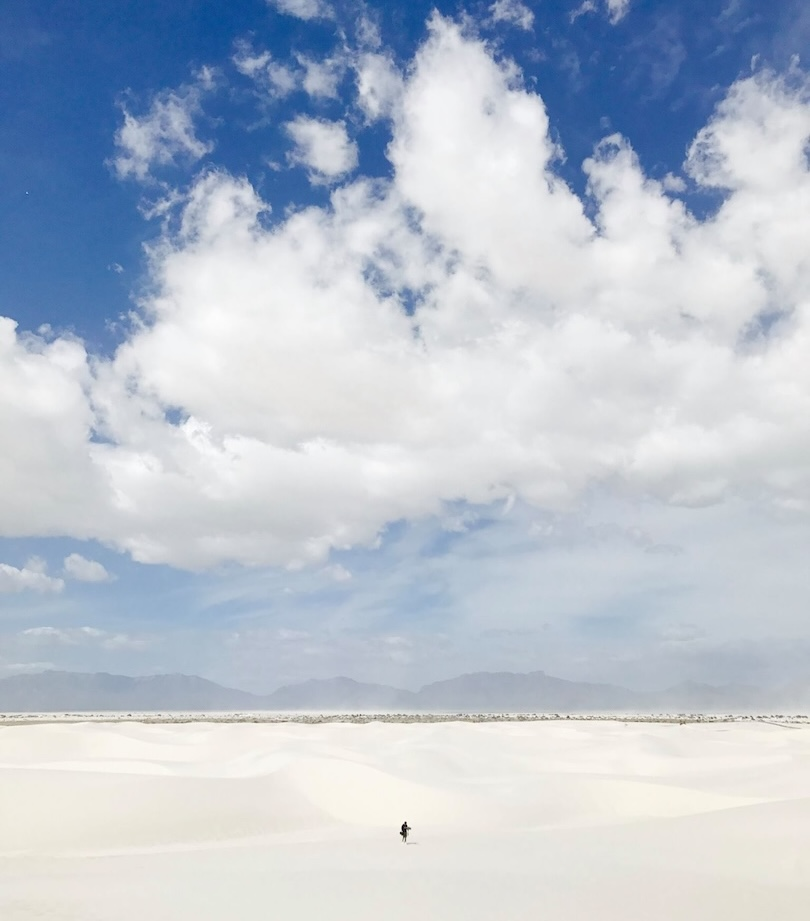
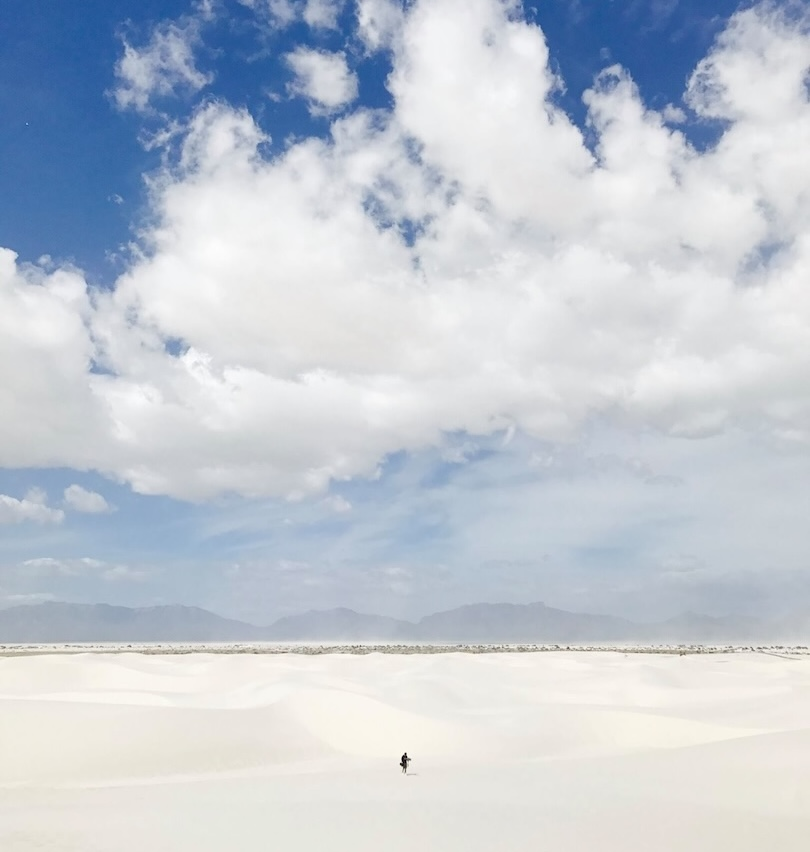
lot of updates

diff --git a/music.html b/music.html
@@ -18,36 +18,7 @@
 </nav>
   <main class="container">
     <h1></h1>
-    <div class="music-links">
-      <a href="https://open.spotify.com/artist/4p2vYCVicax8tg8SQ36Q9b?si=9wE2B2R3RWy8Qhzb3AFlmQ" target="_blank" rel="noopener noreferrer" aria-label="Spotify">
-        <img src="photos/logos/logo_spotify.png" alt="Spotify">
-      </a>
 
-      <a href="https://music.apple.com/us/artist/mike-ritchie/1357447805" target="_blank" rel="noopener noreferrer" aria-label="Apple Music">
-        <img src="photos/logos/logo_apple.png" alt="Apple Music">
-      </a>
-
-      <a href="https://tidal.com/artist/9634718/u" target="_blank" rel="noopener noreferrer" aria-label="Tidal">
-        <img src="photos/logos/logo_tidal.png" alt="Tidal">
-      </a>
-
-      <a href="https://www.deezer.com/en/artist/55832612" target="_blank" rel="noopener noreferrer" aria-label="Deezer">
-        <img src="photos/logos/logo_deezer.png" alt="Deezer">
-      </a>
-
-      <a href="https://mikeritchie.bandcamp.com/album/delta-waves" target="_blank" rel="noopener noreferrer" aria-label="Bandcamp">
-        <img src="photos/logos/logo_bandcamp.png" alt="Bandcamp">
-      </a>
-
-      <a href="https://soundcloud.com/mike-ritchie-2" target="_blank" rel="noopener noreferrer" aria-label="Soundcloud">
-        <img src="photos/logos/logo_soundcloud.png" alt="Soundcloud">
-      </a>
-
-      <a href="https://www.youtube.com/@mikeritchiemusic" target="_blank" rel="noopener noreferrer" aria-label="YouTube">
-        <img src="photos/logos/logo_youtube.png" alt="YouTube">
-      </a>
-    </div>
-    
     <div class="album-grid">
       <div class="album-item" onclick="toggleAudio('Aura')">
         <img src="photos/albums/album_aura.jpeg" alt="Aura">
@@ -98,6 +69,35 @@
       </div>
     </div>
 
+    <div class="music-links">
+      <a href="https://open.spotify.com/artist/4p2vYCVicax8tg8SQ36Q9b?si=9wE2B2R3RWy8Qhzb3AFlmQ" target="_blank" rel="noopener noreferrer" aria-label="Spotify">
+        <img src="photos/logos/logo_spotify.png" alt="Spotify">
+      </a>
+
+      <a href="https://music.apple.com/us/artist/mike-ritchie/1357447805" target="_blank" rel="noopener noreferrer" aria-label="Apple Music">
+        <img src="photos/logos/logo_apple.png" alt="Apple Music">
+      </a>
+
+      <a href="https://tidal.com/artist/9634718/u" target="_blank" rel="noopener noreferrer" aria-label="Tidal">
+        <img src="photos/logos/logo_tidal.png" alt="Tidal">
+      </a>
+
+      <a href="https://www.deezer.com/en/artist/55832612" target="_blank" rel="noopener noreferrer" aria-label="Deezer">
+        <img src="photos/logos/logo_deezer.png" alt="Deezer">
+      </a>
+
+      <a href="https://mikeritchie.bandcamp.com/album/delta-waves" target="_blank" rel="noopener noreferrer" aria-label="Bandcamp">
+        <img src="photos/logos/logo_bandcamp.png" alt="Bandcamp">
+      </a>
+
+      <a href="https://soundcloud.com/mike-ritchie-2" target="_blank" rel="noopener noreferrer" aria-label="Soundcloud">
+        <img src="photos/logos/logo_soundcloud.png" alt="Soundcloud">
+      </a>
+
+      <a href="https://www.youtube.com/@mikeritchiemusic" target="_blank" rel="noopener noreferrer" aria-label="YouTube">
+        <img src="photos/logos/logo_youtube.png" alt="YouTube">
+      </a>
+    </div>
 
   </main>
 

diff --git a/portfolio.html b/portfolio.html
@@ -21,7 +21,7 @@
     <p></p>
 <div class="portfolio-grid">
 
-  <div class="portfolio-item" onclick="openProject('Space Explorers: The ISS Experience', '<B>VR</B>', 'Felix and Paul Studios, NASA, Time', 'Spatial Sound Mixing, Sound Design, Foley, Editing', 'Winner for Outstanding Interactive Program at the 2021 Primetime Emmy Awards. A four part documentary filmed inside and outside the International Space Station over four years. This was the largest collaboration that NASA has done with a media company.', 'photos/portfolio_spaceexplorers.jpg')">
+  <div class="portfolio-item" onclick="openProject('Space Explorers: The ISS Experience', 'VR', 'Felix and Paul Studios, NASA, Time', 'Spatial Sound Mixing, Sound Design, Foley, Editing', 'Winner for Outstanding Interactive Program at the 2021 Primetime Emmy Awards. A four part documentary filmed inside and outside the International Space Station over four years. This was the largest collaboration that NASA has done with a media company.', 'photos/portfolio_spaceexplorers.jpg')">
     <img src="photos/portfolio_spaceexplorers.jpg" alt="Space Explorers: The ISS Experience">
     <div class="overlay">
       <div class="text">

diff --git a/index.html b/index.html
@@ -23,7 +23,14 @@
       <div class="about-image">
         <img src="photos/nasa_white_sands.jpg" alt="Recording sound for NASA">
       </div>
+      <div class="about-text">
+        <p>For over a decade I've been creating immersive soundscapes using the latest advancements in spatial audio. I am a sonic storyteller, always keeping the emotional intent at the forefront of projects to create meaningful artistic experiences.</p>
+        <p>I've worked on interactive experiences, large scale exhibitions, and industry leading XR projects with Felix and Pauls Studios. I've also composed six albums of ambient music and produced other artists.</p> 
+        <p>I specialize in tasteful and evocative audio, with an emphasis on realism and immersion, using my love of music and film to tell stories through sound. Feel free to say hello!</p>
+      </div>
     </div>
+
+
   </main>
   
   <footer>

diff --git a/css/style.css b/css/style.css
@@ -28,7 +28,7 @@ nav a {
 
 /* CONTENT */
 .container {
-  max-width: 900px;
+  max-width: 800px;
   margin: auto;
   padding: 40px 20px;
 }
@@ -37,7 +37,6 @@ nav a {
 .about-section {
   display: block;
   margin-top: 40px;
-  width: 100%;
 }
 
 .about-image {
@@ -46,6 +45,7 @@ nav a {
   order: 1;
   display: flex;
   justify-content: center;
+  margin-bottom: 60px;
 }
 
 .about-image img {
@@ -56,8 +56,11 @@ nav a {
 }
 
 .about-text {
-  width: 100%;
+  font-family: 'Esteban', serif;
+  margin: 0;
+  line-height: 1.6;
   order: 2;
+  text-align: justify;
 }
 
 /* GLOBAL HEADING */
@@ -183,7 +186,6 @@ h3 {
   grid-template-columns: repeat(3, 1fr);
   gap: 20px;
   padding: 20px;
-  margin-top: 40px;
 }
 
 .album-item {
@@ -284,6 +286,11 @@ h3 {
   .contact-image img {
     max-width: 100%;
     height: auto;
+  }
+
+  .music-links {
+    gap: 10px;   
+    margin-top: 20px;
   }
 }
 
